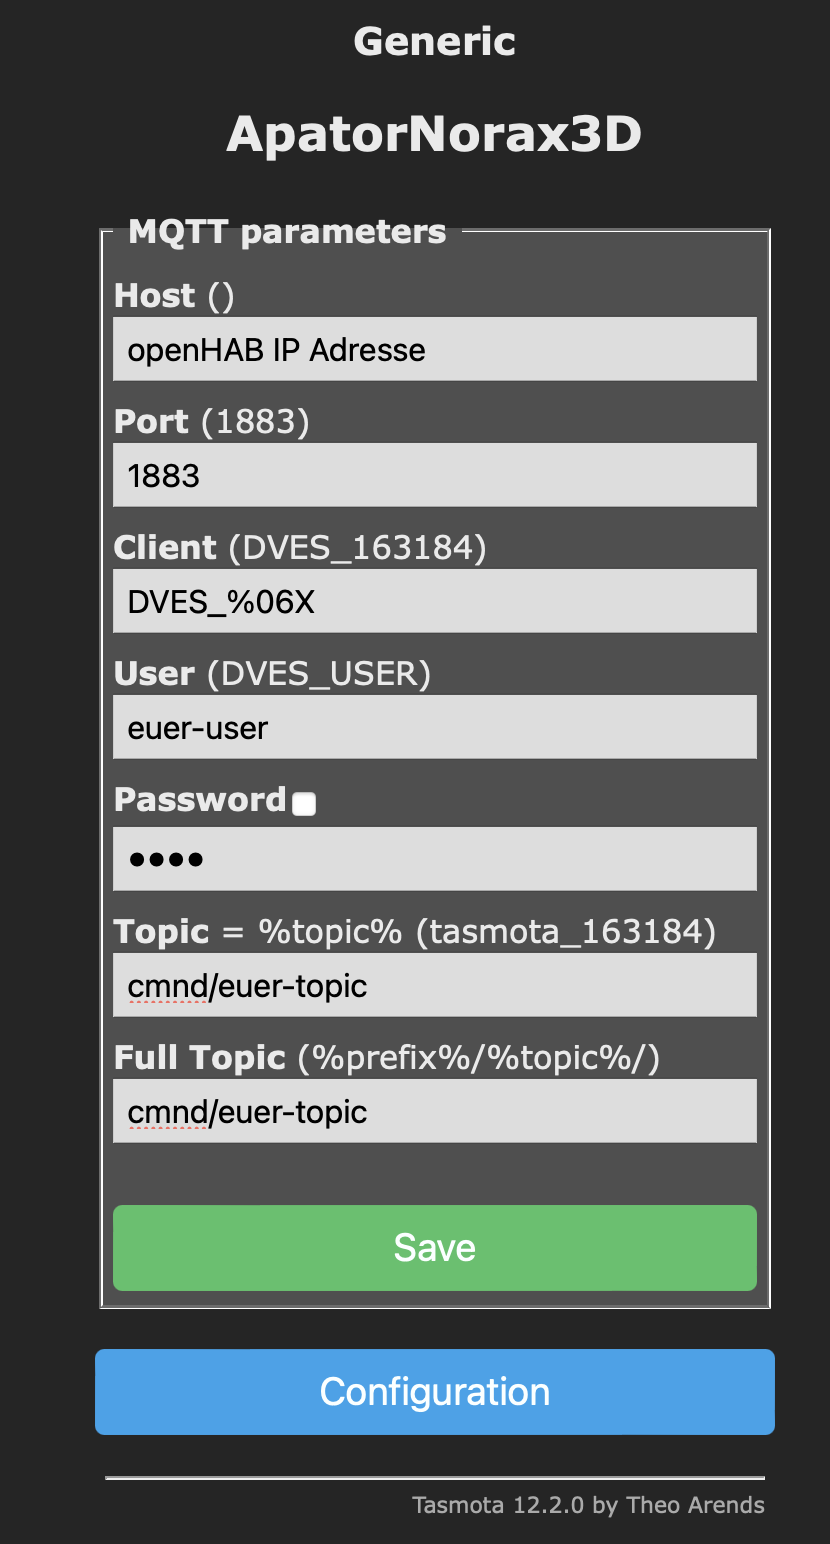
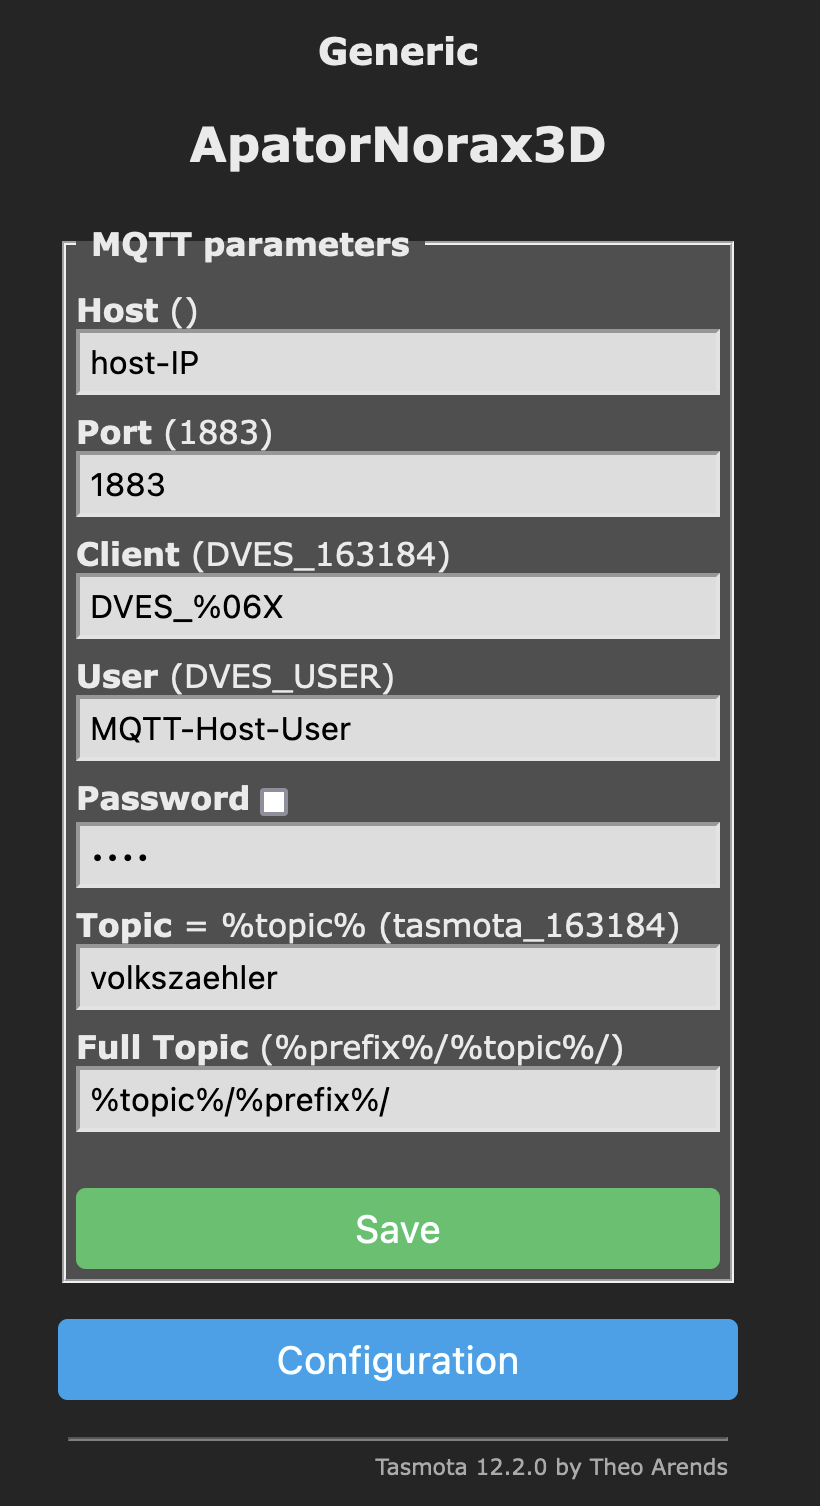
Initial commit

diff --git a/projects/ESP-Stromzaehler/esp-volkszaehler.md b/projects/ESP-Stromzaehler/esp-volkszaehler.md
@@ -382,6 +382,73 @@ Hierzu in Tasmota
 
 ![image logo](../../projects/ESP-Stromzaehler/images/esp-mqtt-config.png) 
 
+Bezüglich der MQTT Konfiguration noch ein kurzer Ausflug in die Tasmota Eigenschaften, die hier berücksichtigt werden sollten:
+
+[Configure Tasmota MQTT ](https://tasmota.github.io/docs/MQTT/#examples)
+
+	For a basic setup you only need to set Host, User and Password but it is recommended to change Topic to avoid issues. Each device should have a unique Topic.
+    * Host = your MQTT broker address or IP (mDNS is not available in the official Tasmota builds, means no .local domain!)
+    * Port = your MQTT broker port (default port is set to 1883)
+    * Client = device's unique identifier. In 99% of cases it's okay to leave it as is, however some Cloud-based MQTT brokers require a ClientID connected to your account. Can not be identical to Topic!
+    * User = username for authenticating on your MQTT broker
+    * Password = password for authenticating on your MQTT broker
+    * Topic = unique identifying topic for your device (e.g. hallswitch, kitchen-light). %topic% in wiki references to this. It is recommended to use a single word for the topic.
+    * FullTopic = full topic definition. Modify it if you want to use multi-level topics for your devices, for example lights/%prefix%/%topic%/ or %prefix%/top_floor/bathroom/%topic%/ etc.
+
+FullTopic ist das MQTT-Topic, das für die Kommunikation mit Tasmota über MQTT verwendet wird. 
+Es wird mit Hilfe von Token erstellt, die in einer benutzerdefinierten Zeichenkette (mit maximal 100 Zeichen) platziert werden. 
+Die Token werden während der Laufzeit dynamisch ersetzt. 
+Damit die MQTT Anbindung korrekt funktioniert , muss das FullTopic die beiden Variablen %prefix% und %topic% enthalten 
+
+Die Variable %prefix% enthält wahlweise tele, cmnd oder stat, je nachdem, welchen Teil Tasmota gerade anspricht.
+Die drei Zweige cmnd, tele und stat haben in Tamota ganz klar definierte Funktionen:
+	- cmnd ist zum Senden von Befehlen in Richtung Tasmota gedacht. Das entspricht der Eingabe in der Tasmota Kommandozeile.
+	- stat liefert unmittelbare "Antworten" auf empfangene Kommandos. Nehmen wir das Standard FullTopic und das Topic "device" als Beispiel, dann kann man eine Schaltsteckdose mit cmnd/device/POWER ON dazu bewegen, die Steckdose einzuschalten. Gleichzeitig wird Tasmota mit stat/device/POWER ON und stat/device/RESULT {"Power":"ON"} reagieren.
+	- Über tele werden zyklisch Daten gesendet.
+
+Alle MQTT-Statusmeldungen werden unter Verwendung des konfigurierbaren %topic% gesendet, das vom Benutzer eindeutig festgelegt werden muss. 
+In diesem Projekt heisst das topic = „volkszaehler“,  kann aber auch „tasmota-xyz-abc“ heissen , solange man weiß, was es ist und wo es zu finden ist.
+Im Topic vergibt man einen eindeutigen Namen, oder zumindest einen im Rahmen des Fulltopics eindeutigen Namen. 
+Auch hier könnte man noch Unterebenen definieren, es erscheint aber sinnvoll, es damit nicht zu übertreiben 
+
+Nachdem ihr die Konfiguration abgespeichert habt, könnt ihr in den Konsolen messages zB folgende Messages sehen:
+
+	volkszaehler/tele/SENSOR = {"Time":"2022-11-11T11:11:11“,“SML":{"Power_curr“:000}}
+Oder (gekürzt)
+	volkszaehler/tele/STATE = {"Time“:“2022-11-11T11:11:11“,“Uptime":"","UptimeSec““:,“Heap“:““SleepMode":"Dynamic","Sleep““,“LoadAvg“:““MqttCount“:““Wifi":{"AP":1,"SSId“:“““x:“““,“Channel““,“Mode“:“““,“RSSI“““Signal““LinkCount“““:““}}
+Oder (gekürzt)
+	volkszaehler/tele/SENSOR = {"Time“:“2022-11-11T11:11:11“,“SML":{"Total_in““Total_out““Power_curr“:““Volt_p1":,"Volt_p2":,"Volt_p3":,"Amperage_p1","Amperage_p2":,"Amperage_p3","Power_curr_p1":0,"Power_curr_p2":0,"Power_curr_p3":0,"frequency":50}}
+
+
+Was die Konfiguration auf der Gegenseite , dh OpenHAB betrifft, hier auch noch ein paar Hinweise, die zum besseren Verständnis hilfreich sind.
+Hier gilt mein Dank den fleissigen Erklärungen auf [openhabforum ](https://openhabforum.de/)
+
+Tasmota != mqtt != generic mqtt Thing. 
+
+In Tasmota gibt es drei Prefixes, d.h. für Commands, Status und zyklische Statusinfo -  und die Senderichtung ist zweigeteilt. 
+In MQTT gibt es nur zwei Richtungen, 
+- vom Client zum Broker und 
+- vom Broker zum Client. 
+
+Die Topics, welche zum Client gehen, werden vom Client abonniert.
+Die Topics, über die der Client sendet, werden vom Client (gewöhnlich) nicht abonniert. 
+
+In openHAB wird MQTT abgebildet, kein Tasmota ! 
+Es gibt also Topics zum Senden und Topics zum empfangen. 
+
+Die Empfangsrichtung wird über das stateTopic konfiguriert, die Senderichtung über das commandTopic. 
+Wenn ein Channel nur senden soll, wird kein stateTopic konfiguriert, wenn ein Channel nur empfangen soll, wird kein commandTopic konfiguriert. 
+
+
+
+
+
+
+
+
+
+
+
 Der mit der eigenen Tasmota-Firmware geflashte ESP kann jetzt Daten vom Stromzähler per MQTT an 
 OpenHAB senden. Allerdings ist an meinen ESP ja derzeit noch kein Lesekopf angebunden. Das wäre dann
 der nächste Schritt.
